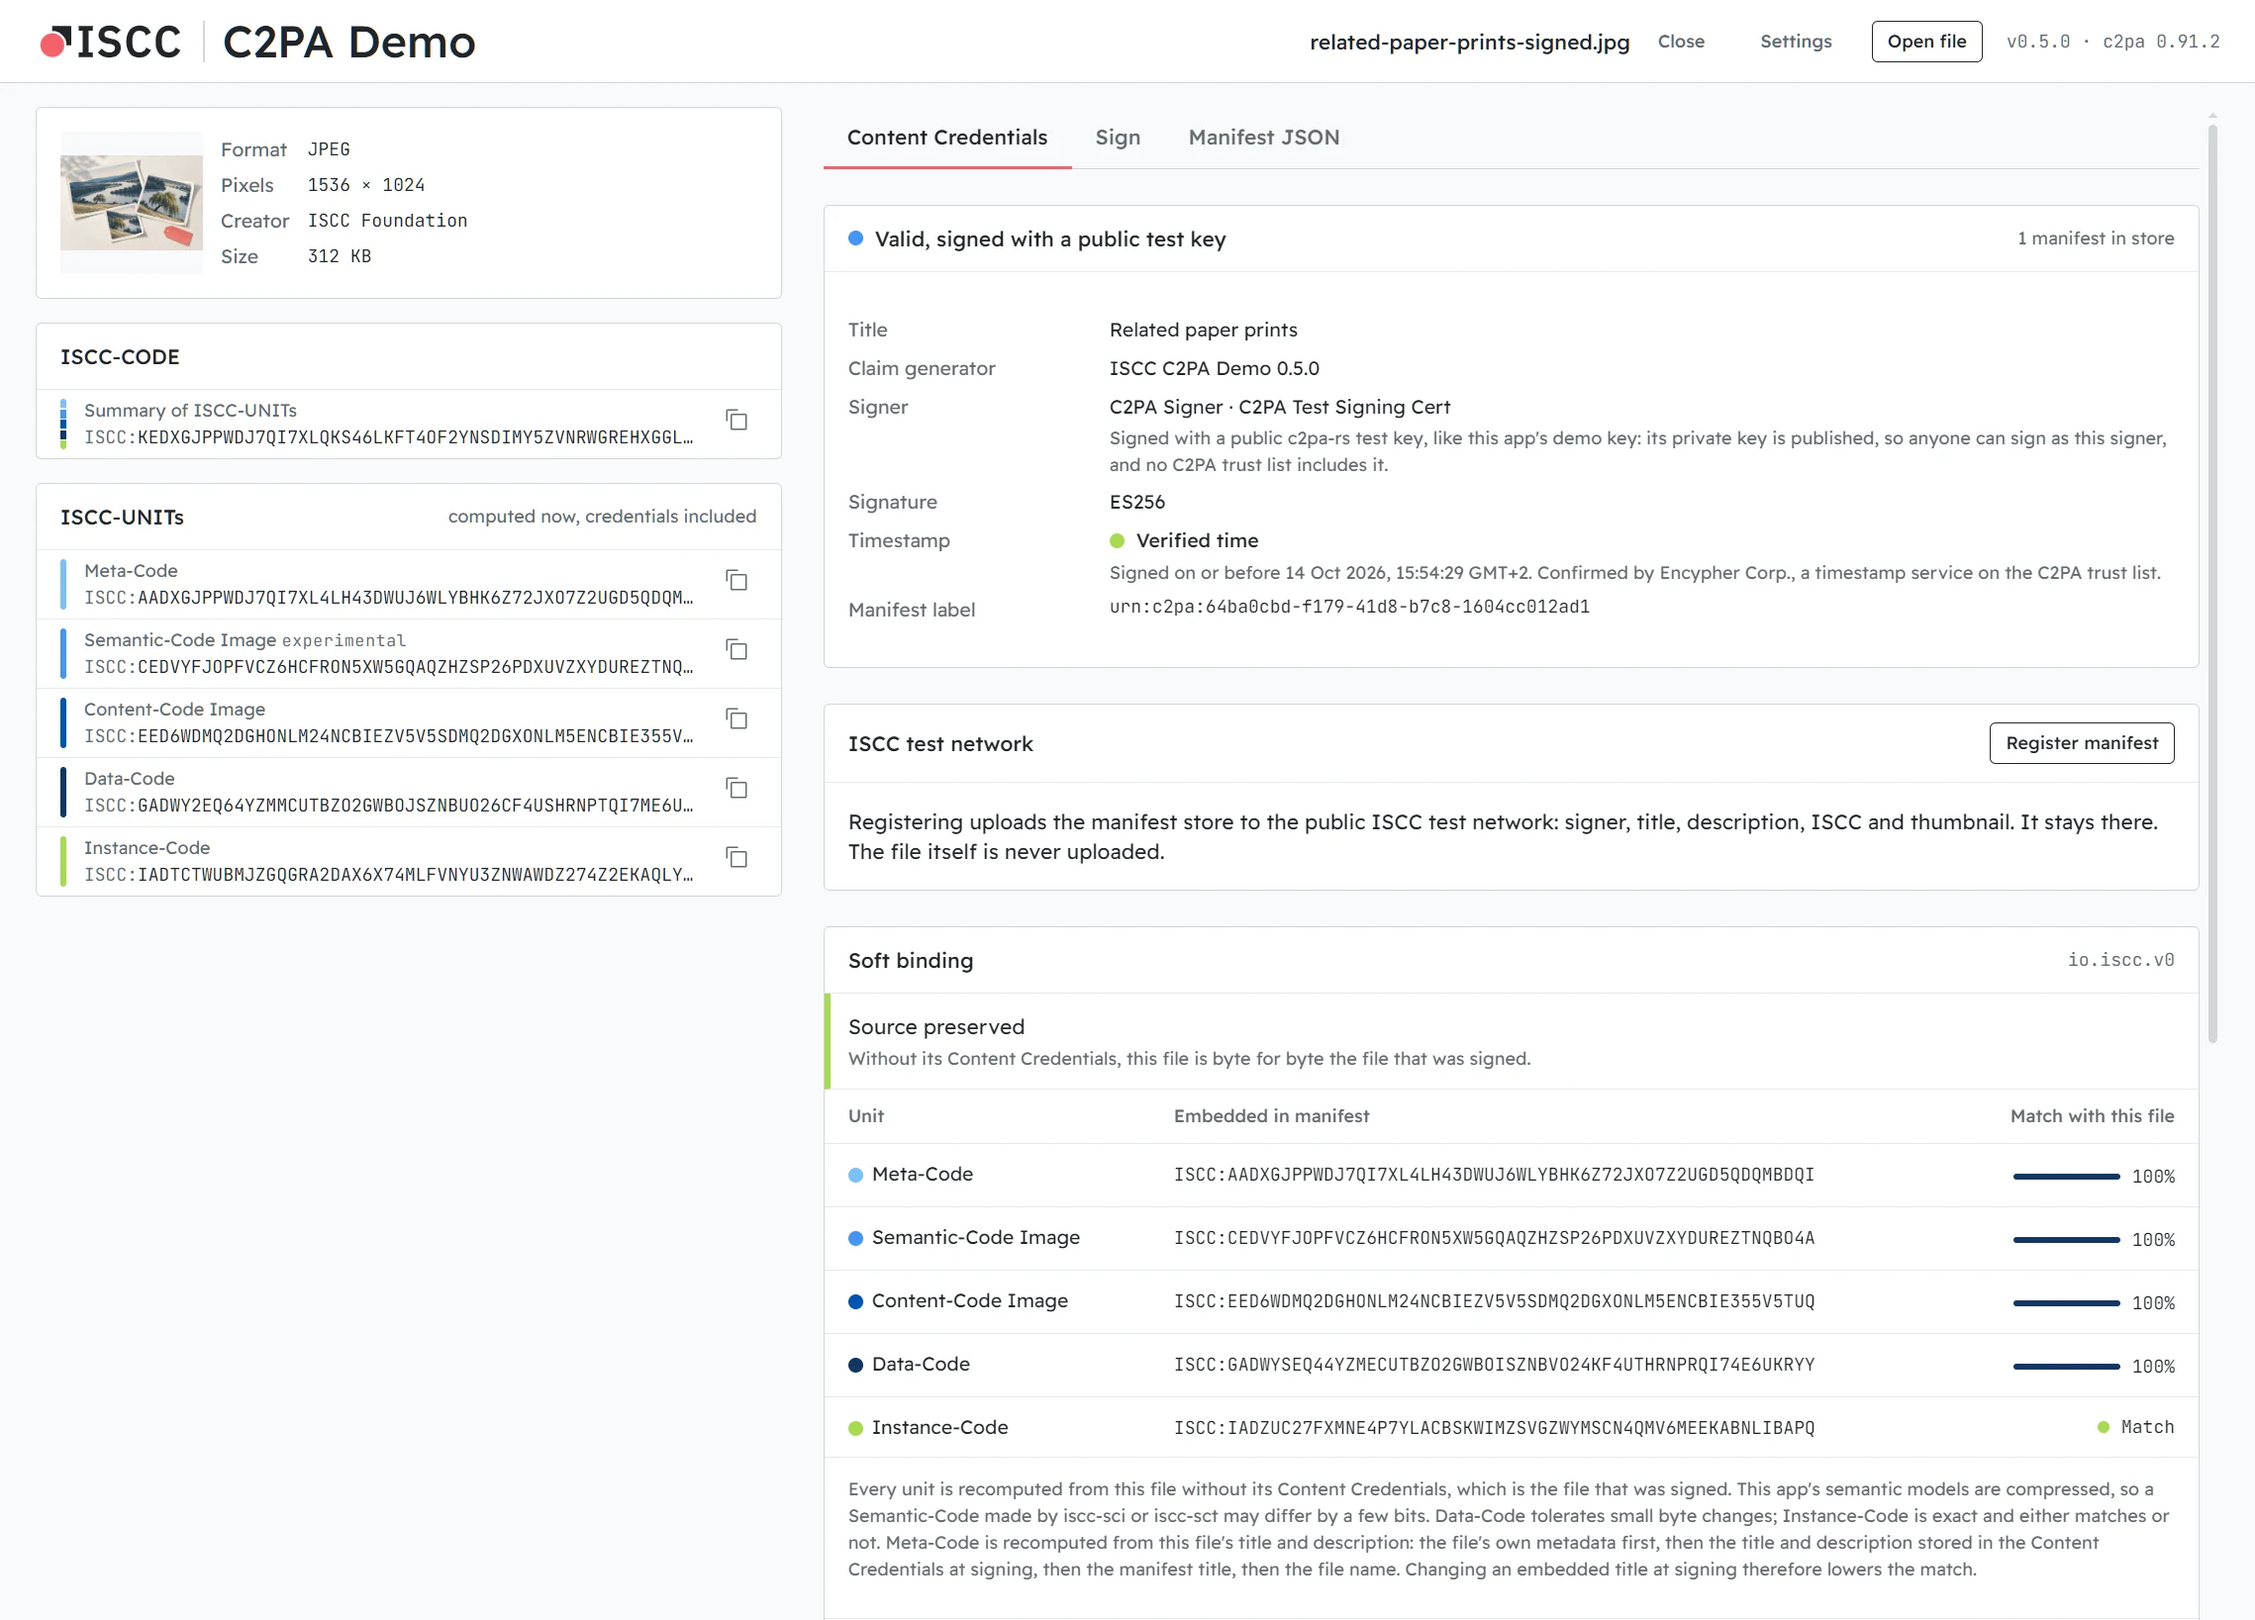
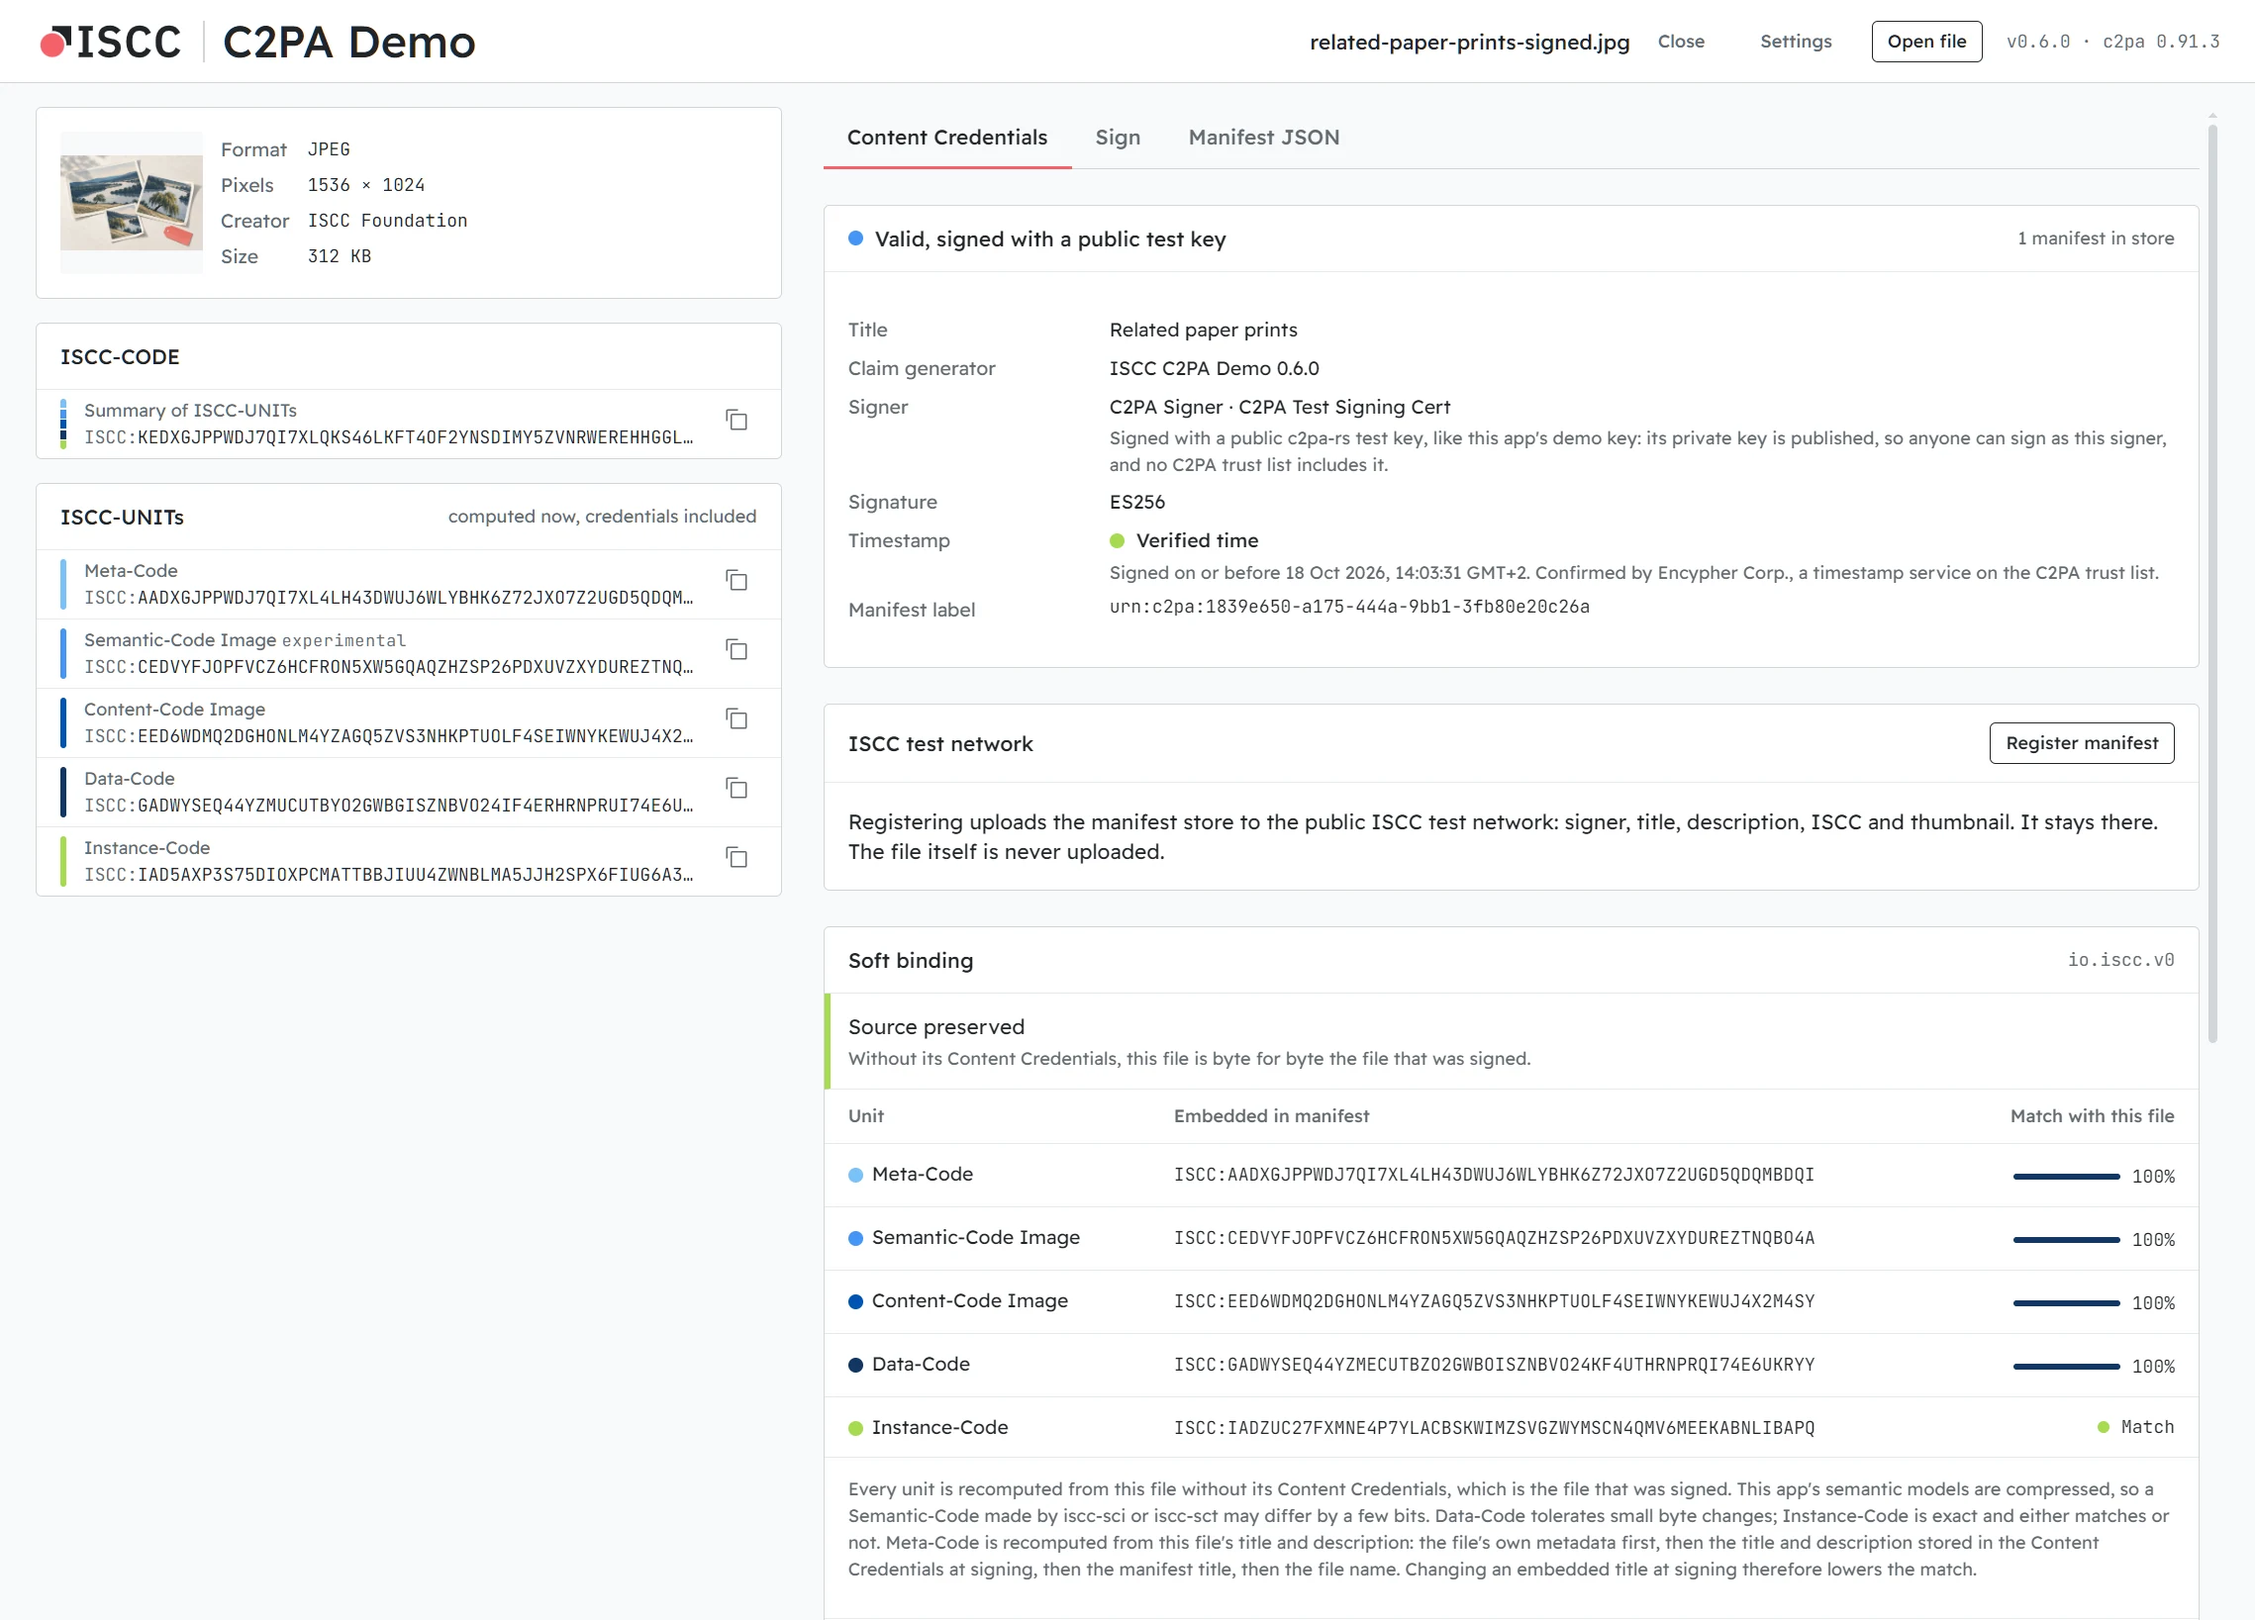
chore: release v0.6.0

diff --git a/site/index.html b/site/index.html
@@ -41,7 +41,7 @@
       </figure>
       <p class="caption">A signed image, opened again. C2PA says <b>Valid</b>, and every ISCC unit in its soft binding
         matches the file. Re-encode it at half size and the C2PA hash breaks, but the Content-Code still matches at
-        <b>100%</b> and the experimental Semantic-Code at 99%. Crop 5% off each side as well and they score 81% and 95%,
+        <b>100%</b> and the experimental Semantic-Code at 99%. Crop 5% off each side as well and they score 72% and 95%,
         where unrelated images score around 50%.</p>
     </section>
 

diff --git a/CHANGELOG.md b/CHANGELOG.md
@@ -1,12 +1,15 @@
 # Changelog
 
-## Unreleased
+## 0.6.0 - 2026-10-18
 
-- Paste to open: a file copied in the file manager opens as if dropped, and a picture on the
-  clipboard (a screenshot, an image copied in a web browser) is saved into
-  `Pictures/ISCC C2PA Demo` as `pasted-<date>-<time>.png` and opened from there. On Windows an
-  image dragged from a web browser opens too: the browser hands over the file it downloaded,
-  Content Credentials included, saved into the same folder under the name the browser gives it.
+- Paste to open: Ctrl+V (Cmd+V on macOS) opens a file copied in the file manager as if it were
+  dropped. A picture on the clipboard, such as a screenshot or an image copied in a web browser,
+  is saved into `Pictures/ISCC C2PA Demo` as `pasted-<date>-<time>.png` and opened from there.
+  A copied picture loses its metadata and Content Credentials on the way, which makes it a case
+  for Recover Content Credentials.
+- On Windows, an image dragged from a web browser opens too: the browser hands over the file it
+  downloaded, Content Credentials included, which is saved into the same folder under the name
+  the browser gives it.
 - Content-Code Image follows ISO 24138 for bits beyond 64 (iscc-lib 0.7, as iscc-core 1.5):
   the 256-bit code the app embeds changes after its first 64 bits. Files signed with earlier
   versions compare lower on their Content-Code Image; sign them again to refresh it.
